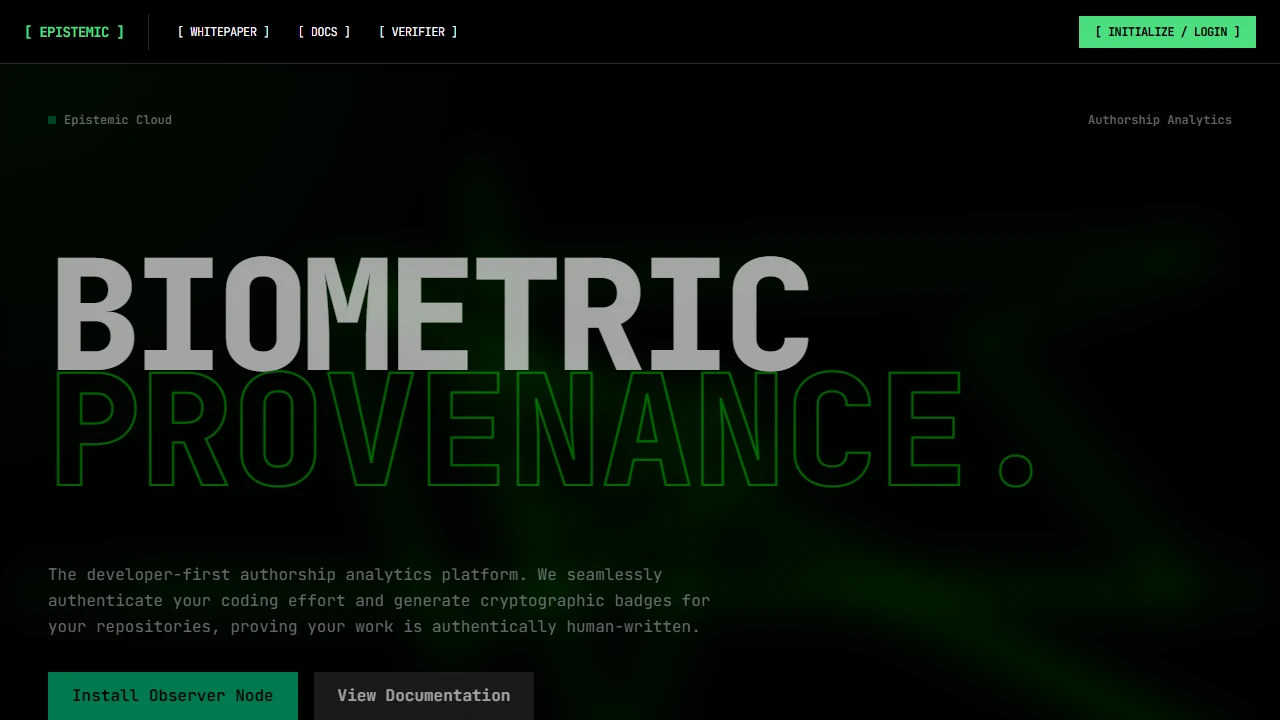
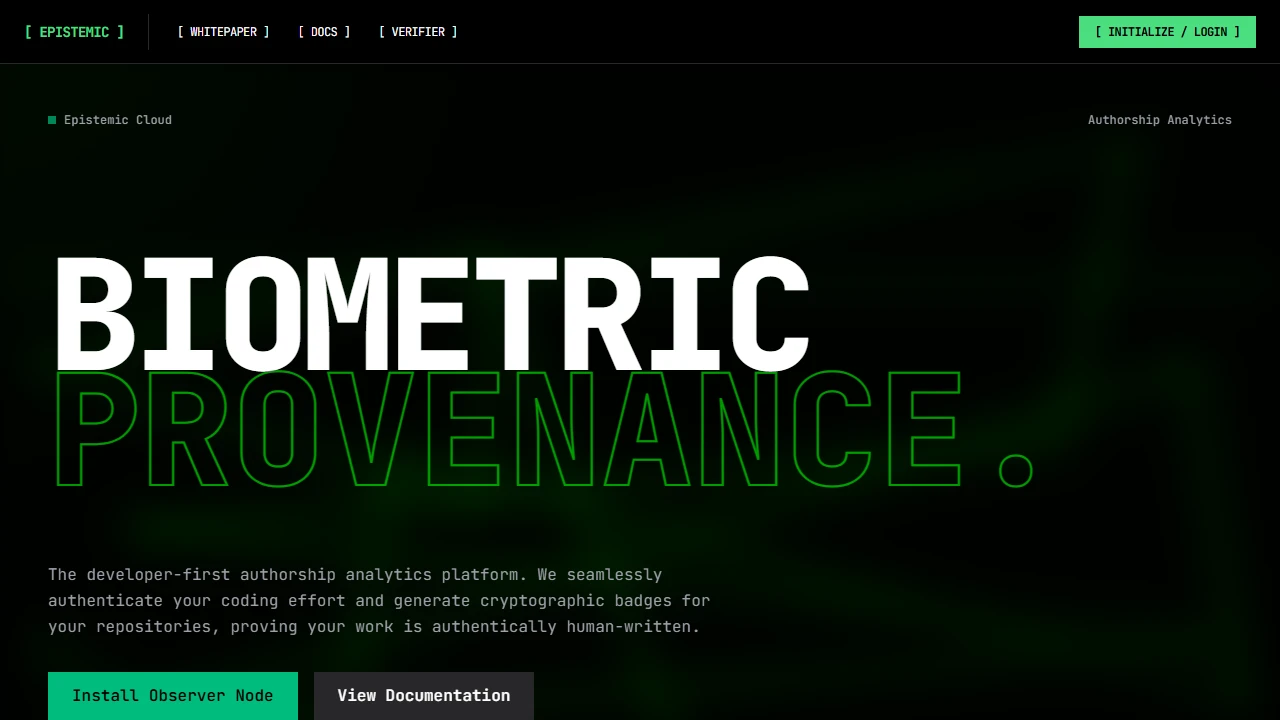
Update portfolio: Add TheSuperRAG, fix layout alignments, and prevent horizontal scroll

diff --git a/src/components/projects/Projects3DSection.jsx b/src/components/projects/Projects3DSection.jsx
@@ -19,6 +19,14 @@ const projects = [
         link: "https://epistemic-lac.vercel.app/",
         github: "" 
     },
+    {
+        title: "TheSuperRAG",
+        description: "A privacy-first AI assistant with literal amnesia. It processes files locally in-memory, actively self-corrects to eliminate hallucinations, and supports BYOK (Groq, OpenAI, Anthropic). Built without heavy PyTorch dependencies using FastEmbed and LangGraph.",
+        tech: ["Python", "FastEmbed", "LangGraph", "LLMs"],
+        image: "/imgs/TheSuperRAG.webp",
+        link: "https://the-super-rag.vercel.app/",
+        github: "https://github.com/tanushbhootra576/TheSuperRAG"
+    },
  
     {
         title: "use-web-kit",
@@ -35,14 +43,6 @@ const projects = [
         image: "/imgs/CampusConnect.webp",
         link: "https://studentverse-amber.vercel.app/",
         github: "https://github.com/tanushbhootra576/camp.git"
-    },
-    {
-        title: "GridSaga",
-        description: "A 3D logic puzzle game combining core mechanics of 2048 with spatial Rubik's Cube rotations, featuring modular state management and procedural level generation.",
-        tech: ["Next.js", "TypeScript", "Three.js", "React Three Fiber", "TailwindCSS"],
-        image: "/imgs/GridSaga.webp",
-        link: "https://grid-saga.vercel.app/",
-        github: "https://github.com/tanushbhootra576/GridSaga.git"
     },
     {
         title: "JurisAI",

diff --git a/take-screenshots.js b/take-screenshots.js
@@ -12,6 +12,14 @@ const projects = [
         github: "" 
     },
     {
+        title: "TheSuperRAG",
+        description: "A privacy-first AI assistant with literal amnesia. It processes files locally in-memory, actively self-corrects to eliminate hallucinations, and supports BYOK (Groq, OpenAI, Anthropic). Built without heavy PyTorch dependencies using FastEmbed and LangGraph.",
+        tech: ["Python", "FastEmbed", "LangGraph", "LLMs"],
+        image: "/imgs/TheSuperRAG.webp",
+        link: "https://the-super-rag.vercel.app/",
+        github: "https://github.com/tanushbhootra576/TheSuperRAG"
+    },
+    {
         title: "VoxMotion",
         description: "An autonomous rescue scout robot prototype featuring a custom triple-redundant control system that integrates real-time tactical remote feeds, voice-command processing, and automated spatial hazard mapping.",
         tech: ["C++", "Robotics Engineering", "Hardware Control", "Embedded Systems"],
@@ -34,14 +42,6 @@ const projects = [
         image: "/imgs/CampusConnect.webp",
         link: "https://studentverse-amber.vercel.app/",
         github: "https://github.com/tanushbhootra576/camp.git"
-    },
-    {
-        title: "GridSaga",
-        description: "A 3D logic puzzle game combining core mechanics of 2048 with spatial Rubik's Cube rotations, featuring modular state management and procedural level generation.",
-        tech: ["Next.js", "TypeScript", "Three.js", "React Three Fiber", "TailwindCSS"],
-        image: "/imgs/GridSaga.webp",
-        link: "https://grid-saga.vercel.app/",
-        github: "https://github.com/tanushbhootra576/GridSaga.git"
     },
     {
         title: "JurisAI",

diff --git a/download-images.js b/download-images.js
@@ -11,6 +11,11 @@ const projects = [
         image: "/imgs/WeatherApp.webp"
     },
     {
+        title: "TheSuperRAG",
+        link: "https://the-super-rag.vercel.app/",
+        image: "/imgs/TheSuperRAG.webp"
+    },
+    {
         title: "VoxMotion",
         link: "",
         image: "/imgs/voxmotion.webp"
@@ -24,11 +29,6 @@ const projects = [
         title: "CampusConnect",
         link: "https://studentverse-amber.vercel.app/",
         image: "/imgs/CampusConnect.webp"
-    },
-    {
-        title: "GridSaga",
-        link: "https://grid-saga.vercel.app/",
-        image: "/imgs/GridSaga.webp"
     },
     {
         title: "JurisAI",

diff --git a/src/index.css b/src/index.css
@@ -82,6 +82,7 @@ body {
   font-family: var(--font-sans);
   -webkit-font-smoothing: antialiased;
   -moz-osx-font-smoothing: grayscale;
+  overflow-x: hidden;
 }
 
 /* Smooth scrolling - Disabled for Lenis */
@@ -99,8 +100,10 @@ body {
   cursor: none;
 }
 
-main {
+main, #root {
   display: block;
+  overflow-x: hidden;
+  width: 100%;
 }
 
 html:focus-within {

diff --git a/src/components/Skills/TheNewSkill.jsx b/src/components/Skills/TheNewSkill.jsx
@@ -188,7 +188,6 @@ export default function TheNewSkill() {
 
                     {/* 3. DETAILED SKILL SECTIONS (Scroll Triggers) */}
 
-                    <div style={{ display: 'flex', flexWrap: 'wrap', gap: '2rem' }}>
                         <div
                             className={`tns-service-item ${activeSkillIndex === 0 ? "is-active" : ""}`}
                             data-skill-index="0"
@@ -210,7 +209,6 @@ export default function TheNewSkill() {
                                 Leveraging <strong>Node.js, Express, and PostgreSQL</strong> to build scalable backend systems. I focus on clean API design, authentication, and database optimization and many more.
                             </p>
                         </div>
-                    </div>
 
                     <div
                         className={`tns-service-item ${activeSkillIndex === 2 ? "is-active" : ""}`}